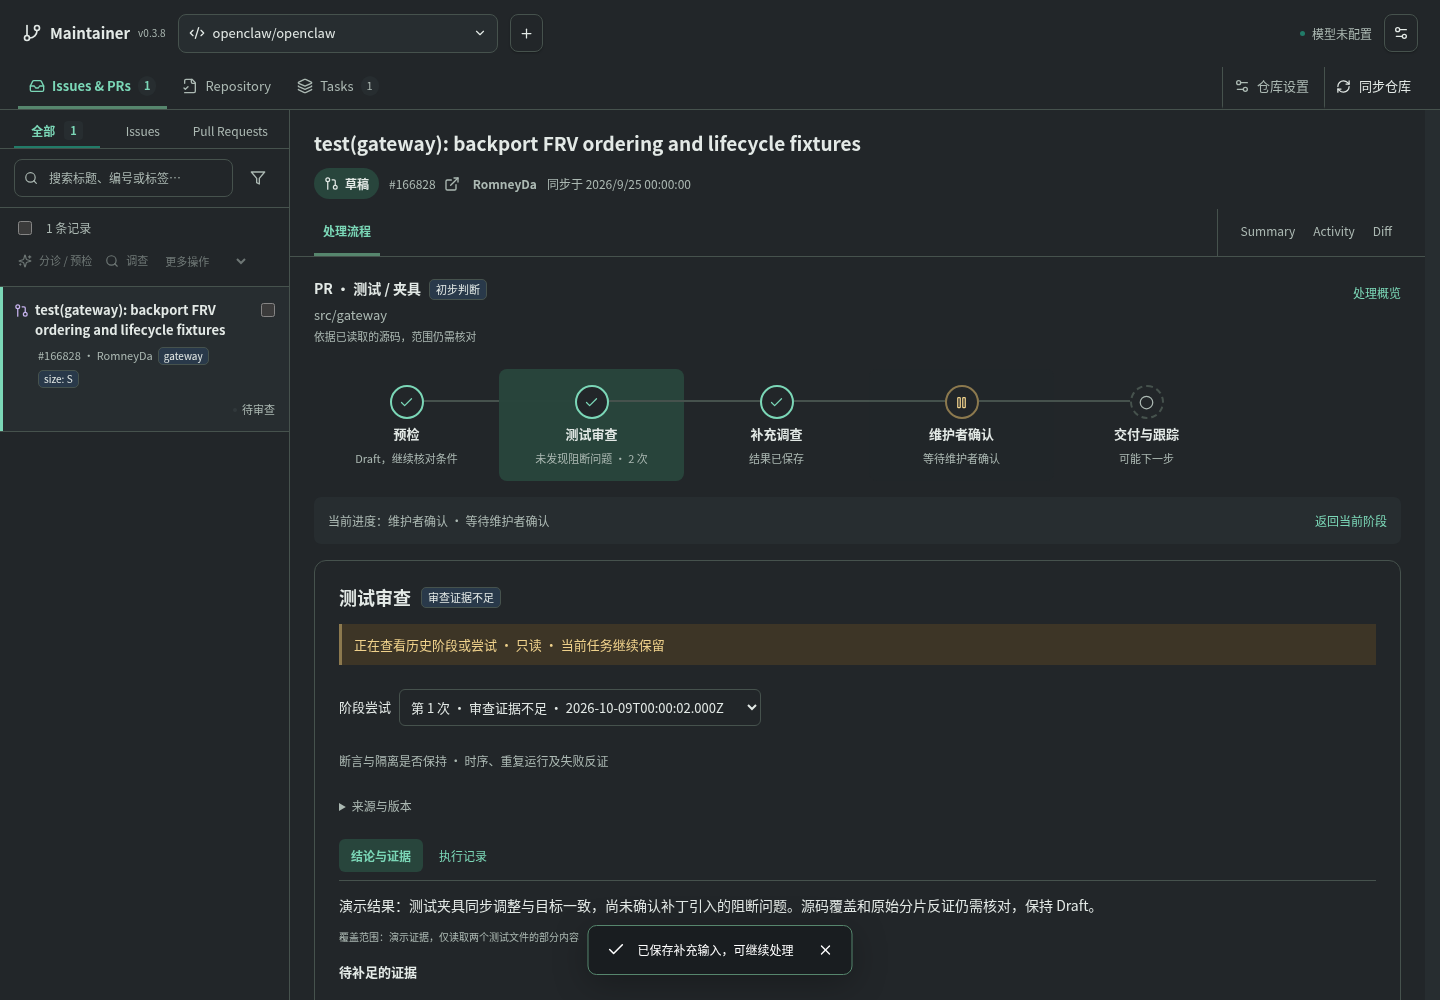
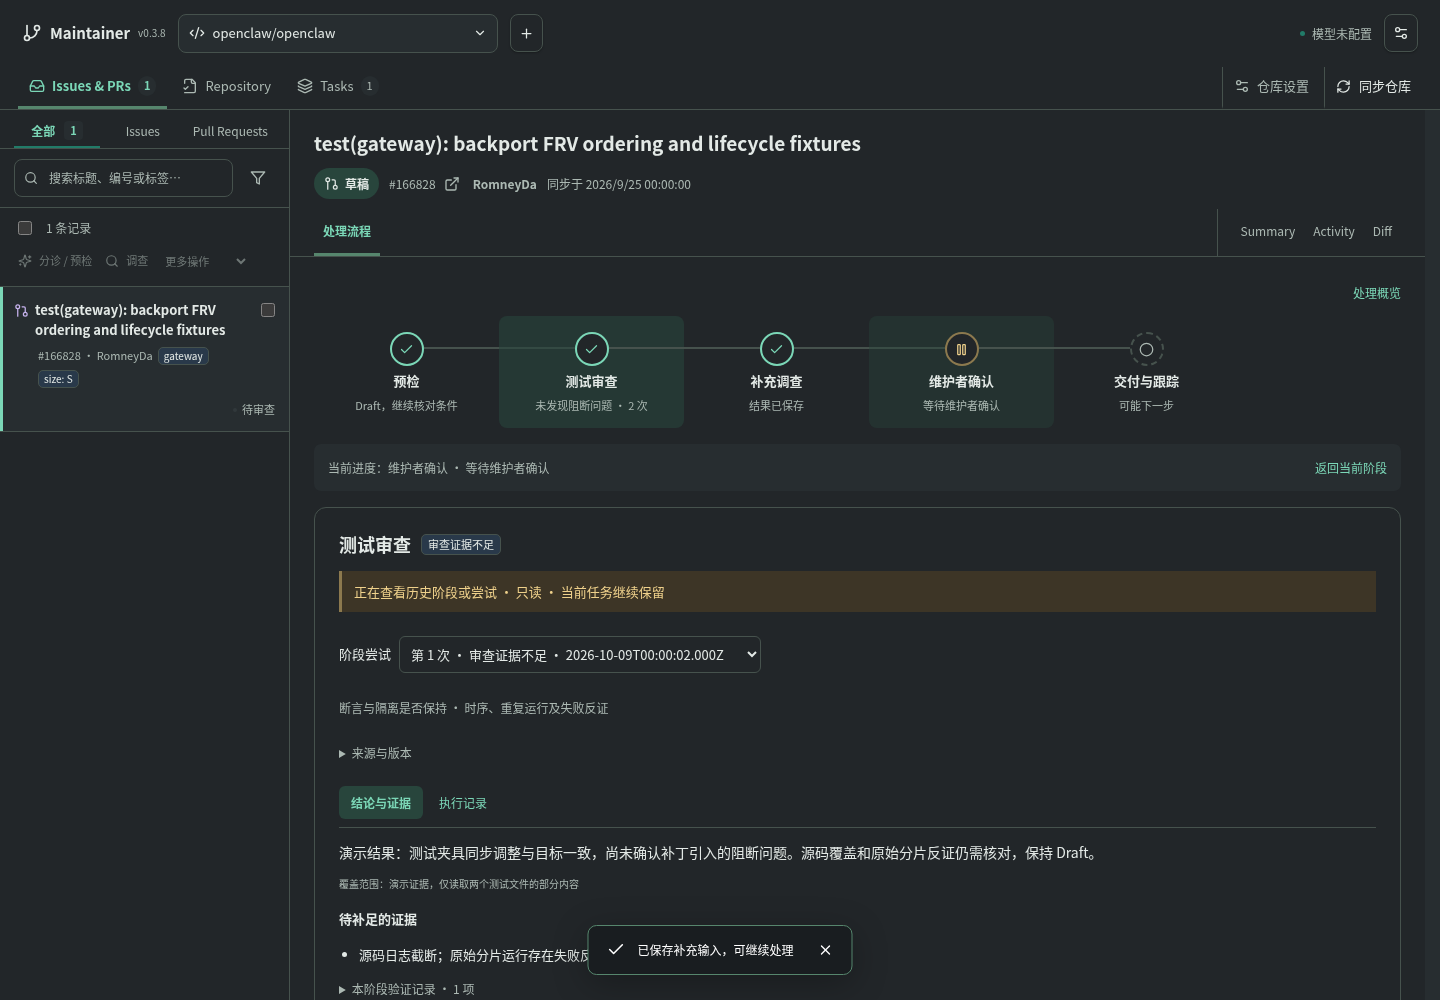
fix: remove redundant workflow profile text

diff --git a/src/client/styles.css b/src/client/styles.css
@@ -549,9 +549,7 @@ body[data-ds-dark-theme] .mw .mw-repo-switch select{background:transparent}
 
 /* Phase navigation is a view of saved work, not a percentage or an execution control. */
 .mw-workflow-detail{min-width:0;max-width:100%;color:var(--mw-text,#29483e)}
-.mw-workflow-profile{display:flex;justify-content:space-between;align-items:flex-start;gap:16px;flex-wrap:wrap;margin-bottom:14px}
-.mw-workflow-profile strong{font-size:14px}.mw-workflow-profile .mw-tag{margin-left:8px}
-.mw-workflow-profile p,.mw-workflow-profile small{color:var(--mw-muted,#63786e);margin-top:5px}
+.mw-workflow-toolbar{display:flex;justify-content:flex-end;align-items:center;gap:16px;flex-wrap:wrap}
 .mw-workflow-views{display:flex;gap:10px;align-items:center;flex-wrap:wrap}
 .mw-workflow-detail select{max-width:100%;background:var(--mw-surface,#fff);color:inherit;border:1px solid var(--mw-border,#dce5df);border-radius:6px;padding:7px}
 .mw-workflow-timeline{overflow-x:auto;max-width:100%;padding:8px 0 16px;scrollbar-width:thin}
@@ -578,7 +576,7 @@ body[data-ds-dark-theme] .mw .mw-repo-switch select{background:transparent}
 .mw-stage-view-controls{display:flex;gap:16px;margin:10px 0 16px}.mw-stage-view-controls button[aria-pressed=true]{font-weight:700;text-decoration:underline;text-underline-offset:4px}
 .mw-stage-result h4{margin-top:16px}.mw-stage-result details{margin-top:16px}.mw-stage-result li,.mw-stage-panel li{line-height:1.8;overflow-wrap:anywhere}
 .mw-stage-activity{border-top:1px solid var(--mw-border,#dce5df);margin-top:24px;padding-top:14px;font-size:12px}.mw-stage-activity li{margin-top:8px;overflow-wrap:anywhere}
-@media(max-width:760px){.mw-workflow-current{flex-direction:column}.mw-workflow-actions{max-width:100%}.mw-timeline-node{min-width:125px}.mw-workflow-profile{gap:8px}.mw-workflow-views{font-size:12px}.mw-workflow-detail .mw-text-button{min-height:44px}.mw-workflow-current{padding:12px}.mw-stage-panel select{width:100%}}
+@media(max-width:760px){.mw-workflow-current{flex-direction:column}.mw-workflow-actions{max-width:100%}.mw-timeline-node{min-width:125px}.mw-workflow-toolbar{gap:8px}.mw-workflow-views{font-size:12px}.mw-workflow-detail .mw-text-button{min-height:44px}.mw-workflow-current{padding:12px}.mw-stage-panel select{width:100%}}
 @container content (max-width:560px){.mw-layout-tabs .mw-workarea:has(>.mw-reader-embedded)>.mw-list-panel{display:none}}
 
 .mw-stage-panel>header h3{font-size:18px;margin:0}.mw-stage-panel>header .mw-tag{font-size:11px}

diff --git a/src/client/WorkflowDetail.tsx b/src/client/WorkflowDetail.tsx
@@ -217,25 +217,7 @@ export function WorkflowDetail({
   const cycleLoading = !!cycle && timeline.caseId !== cycle;
   return (
     <section className="mw-workflow-detail" aria-label="事项处理流程">
-      <div className="mw-workflow-profile">
-        <div>
-          <strong>
-            {issue.type === "pr" ? "PR" : "Issue"} · {timeline.profile.label}
-          </strong>
-          {timeline.profile.provisional && (
-            <span className="mw-tag">初步判断</span>
-          )}
-          <p>
-            {timeline.profile.areas.length
-              ? timeline.profile.areas.join(" / ")
-              : "影响范围待核实"}
-          </p>
-          <small title={timeline.profile.basis}>
-            {timeline.profile.provisional
-              ? "依据已读取的源码，范围仍需核对"
-              : "依据保存的分类与证据"}
-          </small>
-        </div>
+      <div className="mw-workflow-toolbar">
         <div className="mw-workflow-views">
           <button
             type="button"

diff --git a/docs/VALIDATION.md b/docs/VALIDATION.md
@@ -188,3 +188,5 @@ REGRESSION_PASSED
 - 既有导航竞态夹具在两种宽度通过：返回来源恢复筛选/滚动/焦点、移除任务后的返回、跨仓库派发、跨任务审批、操作追踪与慢轮询。手机详情替换列表后，返回会重新展示原列表。
 
 截图使用公开 PR 标题与明确标记为“演示”的合成分析，不是对真实 PR 的新审查结论：[浅色当前阶段](evidence/workflow-timeline-2026-10-09/timeline-light-1440.png)、[查看历史](evidence/workflow-timeline-2026-10-09/timeline-history-1440.png)、[深色执行中](evidence/workflow-timeline-2026-10-09/timeline-dark-running-1440.png)、[手机](evidence/workflow-timeline-2026-10-09/timeline-light-390.png)。无付费模型调用、外部 GitHub 写入或新增原生 Harness 端到端验证。
+
+同日界面精简：移除进度条上方的分类、初步判断、源码模块路径与分类依据说明，保留概览、计划和周期操作。严格类型检查、构建与阶段浏览器夹具（1440px / 390px）通过；截图更新为精简后的界面，当前源文件指纹见验收摘要的 `uiCleanup`，此前 304 项测试与完整维护/导航验收对应 `bf58bf6`。
